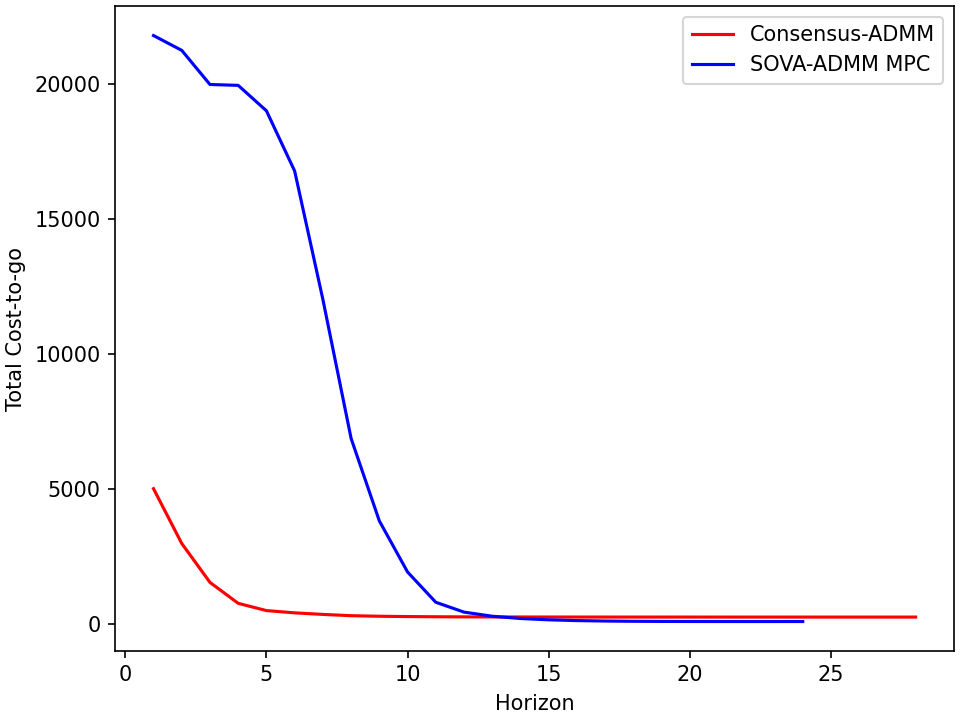
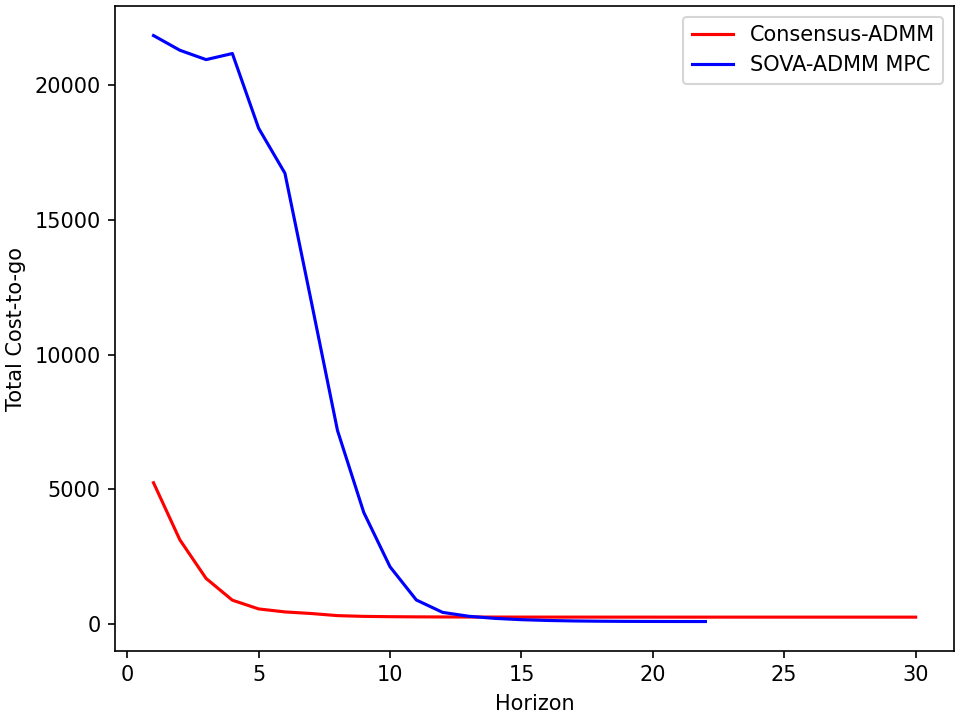
fixed error in recording total trajectory cost

diff --git a/distributed_ADMM/main.py b/distributed_ADMM/main.py
@@ -198,7 +198,7 @@ def solve_iteration(n_states, n_inputs, n_agents, x0, xr, T, radius, Q, R, Qf, M
     u_trj_converged = solution_list[-1][(T+1)*nx:].reshape((T,nu))
     
     coupling_cost = 0
-    for k in range(x_trj_converged.shape[0]-1):
+    for k in range(x_trj_converged.shape[0]):
         distances = util.compute_pairwise_distance_nd_Sym(x_trj_converged[k,:].reshape(-1,1), x_dims, n_dims)
         for pair in distances:
             coupling_cost +=  fmin(0,(pair - 2*radius))**2 * 1200
@@ -210,7 +210,8 @@ def solve_admm_mpc(n_states, n_inputs, n_agents, x0, xr, T, radius, Q, R, Qf, MA
     SOVA_admm = False
     nx = n_states*n_agents
     nu = n_inputs*n_agents
-    
+    n_dims = [3]*n_agents
+    x_dims = [n_states]*n_agents
     X_full = np.zeros((0, nx))
     U_full = np.zeros((0, nu))
     X_full = np.r_[X_full, x0.reshape(1,-1)]
@@ -280,8 +281,13 @@ def solve_admm_mpc(n_states, n_inputs, n_agents, x0, xr, T, radius, Q, R, Qf, MA
     if np.all(dpilqr.distance_to_goal(X_full[-1].flatten(), xr.flatten(), n_agents, n_states, 3) <= 0.1):
         converged = True
 
+    coll_cost = 0
+    for k in range(X_full.shape[0]):
+        distances = util.compute_pairwise_distance_nd_Sym(X_full[k,:].reshape(-1,1), x_dims, n_dims)
+        for pair in distances:
+            coll_cost +=  fmin(0,(pair - 2*radius))**2 * 1200
     
-    obj_trj = float(objective(X_full.T, U_full.T, u_ref, xr, Q, R, Qf))
+    obj_trj = float(objective(X_full.T, U_full.T, u_ref, xr, Q, R, Qf) + coll_cost)
     
     logging.info(
     f'{n_trial},'
@@ -418,7 +424,14 @@ def solve_distributed_rhc(ids, n_states, n_inputs, n_agents, x0, xr, T, radius, 
         
     print(f'Final distance to goal is {dpilqr.distance_to_goal(X_full[-1].flatten(), xr.flatten(), n_agents, n_states, 3)}')    
     
-    obj_trj = float(objective(X_full.T, U_full.T, u_ref, xr, Q, R, Qf))
+    
+    coll_cost = 0
+    for k in range(X_full.shape[0]):
+        distances = util.compute_pairwise_distance_nd_Sym(X_full[k,:].reshape(-1,1), x_dims, n_dims)
+        for pair in distances:
+            coll_cost +=  fmin(0,(pair - 2*radius))**2 * 1200
+    
+    obj_trj = float(objective(X_full.T, U_full.T, u_ref, xr, Q, R, Qf) + coll_cost)
     
 
     logging.info(
@@ -659,12 +672,11 @@ def monte_carlo_analysis():
     setup_logger()
 
     # n_trials_iter = range(30)
-    # n_trials_iter = range(50)
-    n_trials_iter = range(16,50)
+    n_trials_iter = range(50)
+
 
     # n_agents_iter = [3, 4, 5, 6, 7, 8]
-    # n_agents_iter = [3, 5, 8]
-    n_agents_iter = [7]
+    n_agents_iter = [3, 5, 7]
 
     radius = 0.5
   
@@ -734,7 +746,7 @@ if __name__ == "__main__":
         dpilqr.plot_solve(X_full, float(obj), xr, x_dims, True, 3)
         # plt.gca().set_zticks([0.8,1.2], minor=False)
         plt.legend(plt.gca().get_children()[1:3], ["Start Position", "Goal Position"])
-        plt.savefig('ADMM_mpc.png')
+        plt.savefig('regular_ADMM_mpc.png')
         
         
         plt.figure(dpi=150)
